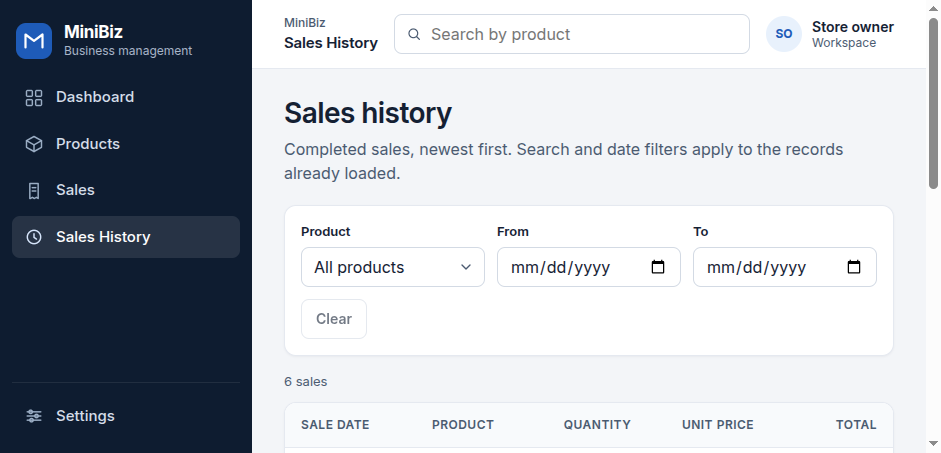
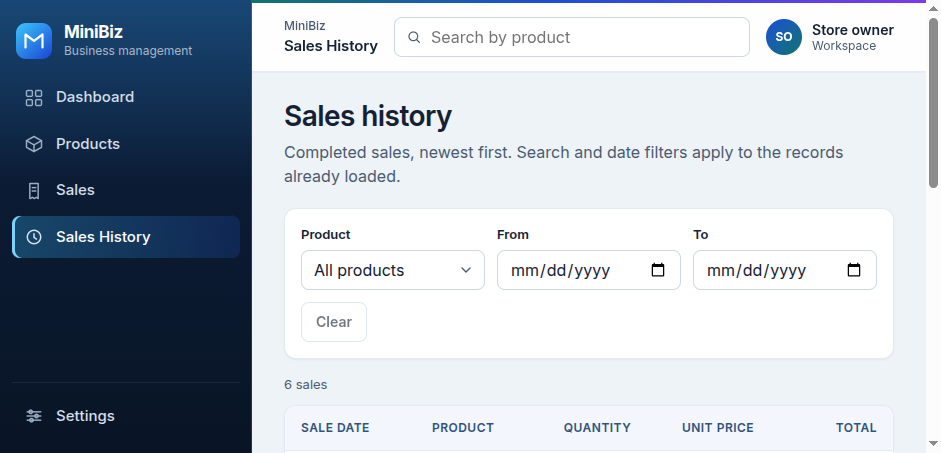
Document the assessment evidence and refresh the interface screenshots.

diff --git a/frontend/src/index.css b/frontend/src/index.css
@@ -1,14 +1,14 @@
 :root {
-  --navy: #0e1c30;
+  --navy: #0b1b33;
   --ink: #142033;
   --muted: #4a5a70;
-  --canvas: #f3f5f8;
+  --canvas: #eef3f8;
   --surface: #ffffff;
-  --border: #e5e9f0;
-  --border-strong: #d3dae4;
-  --primary: #1e5bb8;
-  --primary-hover: #184c9b;
-  --primary-soft: #e8f1fc;
+  --border: #e3eaf3;
+  --border-strong: #cdd7e6;
+  --primary: #1d4ed8;
+  --primary-hover: #1e40af;
+  --primary-soft: #e7efff;
   --success: #0e7a45;
   --success-soft: #e8f6ee;
   --success-line: #b7e0c8;
@@ -36,7 +36,10 @@ body {
   margin: 0;
   min-height: 100vh;
   min-height: 100dvh;
-  background: var(--canvas);
+  background:
+    radial-gradient(900px 420px at 100% -10%, rgba(45, 212, 191, 0.16), transparent 60%),
+    radial-gradient(800px 380px at 0% 0%, rgba(59, 130, 246, 0.16), transparent 55%),
+    var(--canvas);
   color: var(--ink);
   font-family: var(--font);
   font-size: 16px;
@@ -109,12 +112,15 @@ button:disabled {
   flex-direction: column;
   width: 252px;
   flex-shrink: 0;
-  background: var(--navy);
+  background:
+    linear-gradient(180deg, rgba(56, 189, 248, 0.16), transparent 180px),
+    linear-gradient(180deg, #12315c 0%, var(--navy) 42%, #091526 100%);
   color: #d5dee9;
   position: sticky;
   top: 0;
   height: 100vh;
   height: 100dvh;
+  box-shadow: inset -1px 0 0 rgba(125, 211, 252, 0.18);
 }
 
 .sidebar-head {
@@ -204,8 +210,9 @@ button:disabled {
 }
 
 .nav-link.active {
-  background: rgba(255, 255, 255, 0.1);
+  background: linear-gradient(90deg, rgba(56, 189, 248, 0.28), rgba(37, 99, 235, 0.18));
   color: #fff;
+  box-shadow: inset 3px 0 0 #7dd3fc;
 }
 
 .sidebar-backdrop {
@@ -223,8 +230,17 @@ button:disabled {
   position: sticky;
   top: 0;
   z-index: 20;
-  background: var(--surface);
+  background: rgba(255, 255, 255, 0.92);
   border-bottom: 1px solid var(--border);
+  box-shadow: 0 1px 0 rgba(29, 78, 216, 0.04);
+  backdrop-filter: blur(10px);
+}
+
+.topbar::before {
+  content: "";
+  display: block;
+  height: 3px;
+  background: linear-gradient(90deg, #0f766e, #1d4ed8 45%, #7c3aed);
 }
 
 .topbar-inner {
@@ -279,8 +295,8 @@ button:disabled {
   width: 36px;
   height: 36px;
   border-radius: 50%;
-  background: var(--primary-soft);
-  color: var(--primary);
+  background: linear-gradient(135deg, #1d4ed8, #0f766e);
+  color: #fff;
   font-size: 0.75rem;
   font-weight: 700;
 }
@@ -352,6 +368,7 @@ button:disabled {
 
 .eyebrow {
   margin: 0 0 6px;
+  color: var(--primary);
   font-size: 0.8125rem;
   font-weight: 600;
 }
@@ -390,9 +407,10 @@ button:disabled {
 }
 
 .btn-primary {
-  background: var(--primary);
+  background: linear-gradient(180deg, #2563eb, var(--primary));
   border-color: var(--primary);
   color: #fff;
+  box-shadow: 0 1px 2px rgba(29, 78, 216, 0.28);
 }
 
 .btn-primary:hover:not(:disabled) {
@@ -640,8 +658,25 @@ select.control {
   padding: 18px;
   background: var(--surface);
   border: 1px solid var(--border);
+  border-top: 3px solid var(--primary);
   border-radius: 12px;
   box-shadow: var(--shadow);
+}
+
+.kpi-revenue {
+  border-top-color: #1d4ed8;
+}
+
+.kpi-sales {
+  border-top-color: #0f766e;
+}
+
+.kpi-products {
+  border-top-color: #6d28d9;
+}
+
+.kpi-stock {
+  border-top-color: #15803d;
 }
 
 .kpi-icon {
@@ -653,6 +688,26 @@ select.control {
   border-radius: 10px;
   background: var(--primary-soft);
   color: var(--primary);
+}
+
+.kpi-revenue .kpi-icon {
+  background: #e7efff;
+  color: #1d4ed8;
+}
+
+.kpi-sales .kpi-icon {
+  background: #e6f7f4;
+  color: #0f766e;
+}
+
+.kpi-products .kpi-icon {
+  background: #f3e8ff;
+  color: #6d28d9;
+}
+
+.kpi-stock .kpi-icon {
+  background: #e8f6ee;
+  color: #15803d;
 }
 
 .kpi-label,
@@ -757,8 +812,8 @@ td {
 }
 
 th {
-  background: #f8fafc;
-  color: var(--muted);
+  background: #f3f7fd;
+  color: #31527a;
   font-size: 0.75rem;
   font-weight: 600;
   letter-spacing: 0.04em;

diff --git a/frontend/src/pages/Dashboard.tsx b/frontend/src/pages/Dashboard.tsx
@@ -172,7 +172,7 @@ export function Dashboard({ onNavigate }: { onNavigate: (page: PageName) => void
       {!loading && data && (
         <>
           <div className="kpi-grid">
-            <article className="kpi">
+            <article className="kpi kpi-revenue">
               <div className="kpi-icon">
                 <Icon name="revenue" />
               </div>
@@ -182,7 +182,7 @@ export function Dashboard({ onNavigate }: { onNavigate: (page: PageName) => void
                 <p className="kpi-note">Sum of recorded sales</p>
               </div>
             </article>
-            <article className="kpi">
+            <article className="kpi kpi-sales">
               <div className="kpi-icon">
                 <Icon name="list" />
               </div>
@@ -192,7 +192,7 @@ export function Dashboard({ onNavigate }: { onNavigate: (page: PageName) => void
                 <p className="kpi-note">Completed sale records</p>
               </div>
             </article>
-            <article className="kpi">
+            <article className="kpi kpi-products">
               <div className="kpi-icon">
                 <Icon name="products" />
               </div>
@@ -202,7 +202,7 @@ export function Dashboard({ onNavigate }: { onNavigate: (page: PageName) => void
                 <p className="kpi-note">Items in the catalog</p>
               </div>
             </article>
-            <article className="kpi">
+            <article className="kpi kpi-stock">
               <div className="kpi-icon">
                 <Icon name="layers" />
               </div>

diff --git a/frontend/src/components/icons.tsx b/frontend/src/components/icons.tsx
@@ -156,7 +156,13 @@ export function Icon({ name, size = 20 }: IconProps) {
 export function Logo() {
   return (
     <svg className="logo" width="36" height="36" viewBox="0 0 36 36" aria-hidden="true" focusable="false">
-      <rect width="36" height="36" rx="10" fill="#1E5BB8" />
+      <rect width="36" height="36" rx="10" fill="url(#logo-fill)" />
+      <defs>
+        <linearGradient id="logo-fill" x1="4" y1="2" x2="32" y2="34" gradientUnits="userSpaceOnUse">
+          <stop stopColor="#38BDF8" />
+          <stop offset="1" stopColor="#1D4ED8" />
+        </linearGradient>
+      </defs>
       <path
         d="M9.5 24.5V11.5L18 17.8 26.5 11.5v13"
         fill="none"

diff --git a/frontend/src/services/api.ts b/frontend/src/services/api.ts
@@ -33,11 +33,13 @@ export class ApiError extends Error {
 }
 
 // The backend .env holds the MongoDB password and stays on the server.
-// The browser only needs the local API address.
-const API_BASE_URL = "http://127.0.0.1:8000";
-
+// The browser only needs the API address. frontend/.env can override it.
 function apiBaseUrl(): string {
-  return API_BASE_URL;
+  const configured = import.meta.env.VITE_API_BASE_URL?.trim();
+  if (configured) {
+    return configured.replace(/\/$/, "");
+  }
+  return "http://127.0.0.1:8000";
 }
 
 function formatDetail(detail: string | ValidationIssue[]): string {

diff --git a/README.md b/README.md
@@ -67,12 +67,25 @@ npm install
 npm run dev
 ```
 
-Open `http://127.0.0.1:5173`. If that port is already in use, Vite prints the next port it chose. The API address the browser calls is `http://127.0.0.1:8000`, set in `frontend/src/services/api.ts`.
+Open `http://127.0.0.1:5173`. If that port is already in use, Vite prints the next port it chose. The browser calls `http://127.0.0.1:8000` unless `frontend/.env` sets `VITE_API_BASE_URL`. Copy `frontend/.env.example` to `frontend/.env` to change that address. No database password belongs in the frontend.
 
 Build a static copy with:
 
 ```bash
 npm run build
+```
+
+## Project structure
+
+```text
+frontend/src/pages        Dashboard, products, sales, history, and settings
+frontend/src/components   Application shell and shared controls
+frontend/src/services     Typed API client
+frontend/src/utils        Form checks, money display, and the low-stock rule
+backend/app/routers       Product and sales endpoints
+backend/app/schemas.py    Request and response validation
+backend/app/models.py     Shapes of the stored MongoDB documents
+backend/app/database.py   One shared MongoDB client
 ```
 
 ## What the app does
@@ -136,6 +149,20 @@ These were taken from the local app with live Atlas data.
 **The browser blocked a working API.** `curl` could read `http://127.0.0.1:8000`, but the page on port 5173 could not, because the two programs use different ports. `CORSMiddleware` in `backend/app/main.py` now allows pages on `localhost` and `127.0.0.1` to read the responses.
 
 **The virtual environment is not in the project root.** `source venv/bin/activate` fails in the top folder. The environment is `backend/venv`, so the activate command has to run after `cd backend`.
+
+## Assessment
+
+**Functionality.** The dashboard calculates revenue, sale count, catalog size, and units in stock from live records. Products can be created, edited, deleted, searched by name, and filtered by category and maximum stock. A sale stores the current price and reduces stock in one database transaction. Forms reject empty names, invalid prices, and quantities the stock cannot cover, and the page shows the reason.
+
+**Code quality.** The interface and API are separate folders. TypeScript types in `frontend/src/types` match the API models in `backend/app/schemas.py`. Form checks in `frontend/src/utils/validate.ts` follow the same limits. The database password is read from `backend/.env` and is excluded from Git. The health check lives in `backend/app/main.py`.
+
+**UI/UX.** The shell uses a navy sidebar, a colored top edge, and separate colors for the four dashboard figures. Status uses text as well as color: out of stock, low stock, and healthy stock. Pages have loading, empty, and error states. Controls have visible labels, and the layout works on a narrow screen.
+
+**Problem-solving.** The challenges section records the three setup failures that blocked the working app: an Atlas IP that did not match this computer, a browser that refused the API because the ports differed, and a virtual environment that exists only inside `backend`.
+
+**Data handling.** Money is stored as `Decimal128` and sent as strings such as `"120.50"`. Dates are timezone-aware UTC values. A sale that asks for more units than are available returns `409` and does not change stock. Unknown request fields are rejected. When Atlas cannot be reached, product and sales routes return `503` instead of an empty catalog.
+
+**Documentation.** This file covers setup, the API, data rules, and the problems above. `backend/.env.example` and `frontend/.env.example` show the settings without real secrets. FastAPI also publishes interactive docs at `http://127.0.0.1:8000/docs`.
 
 ## Deployment
 
